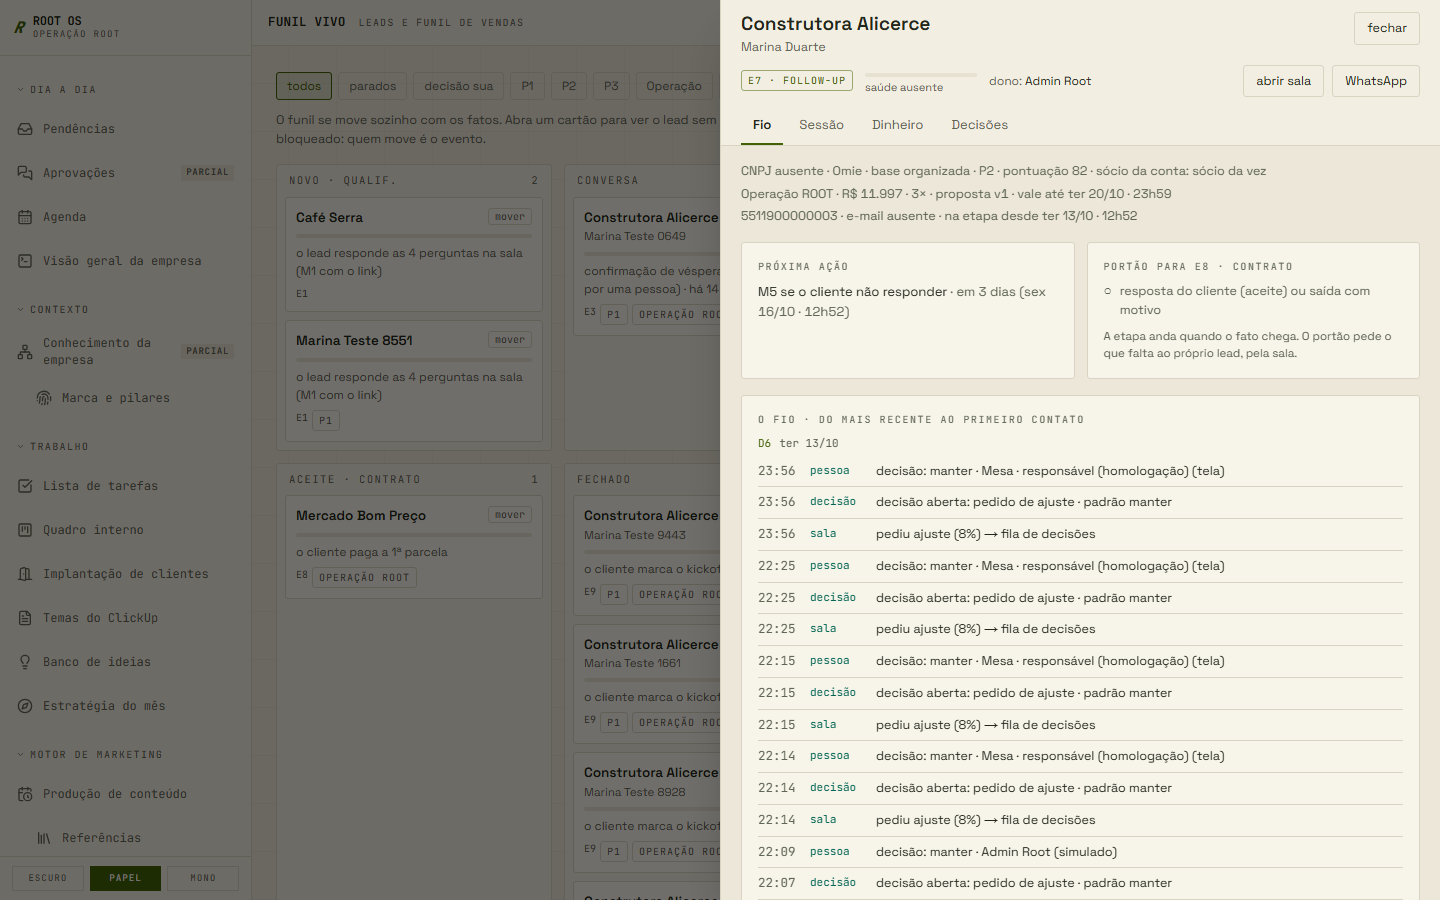
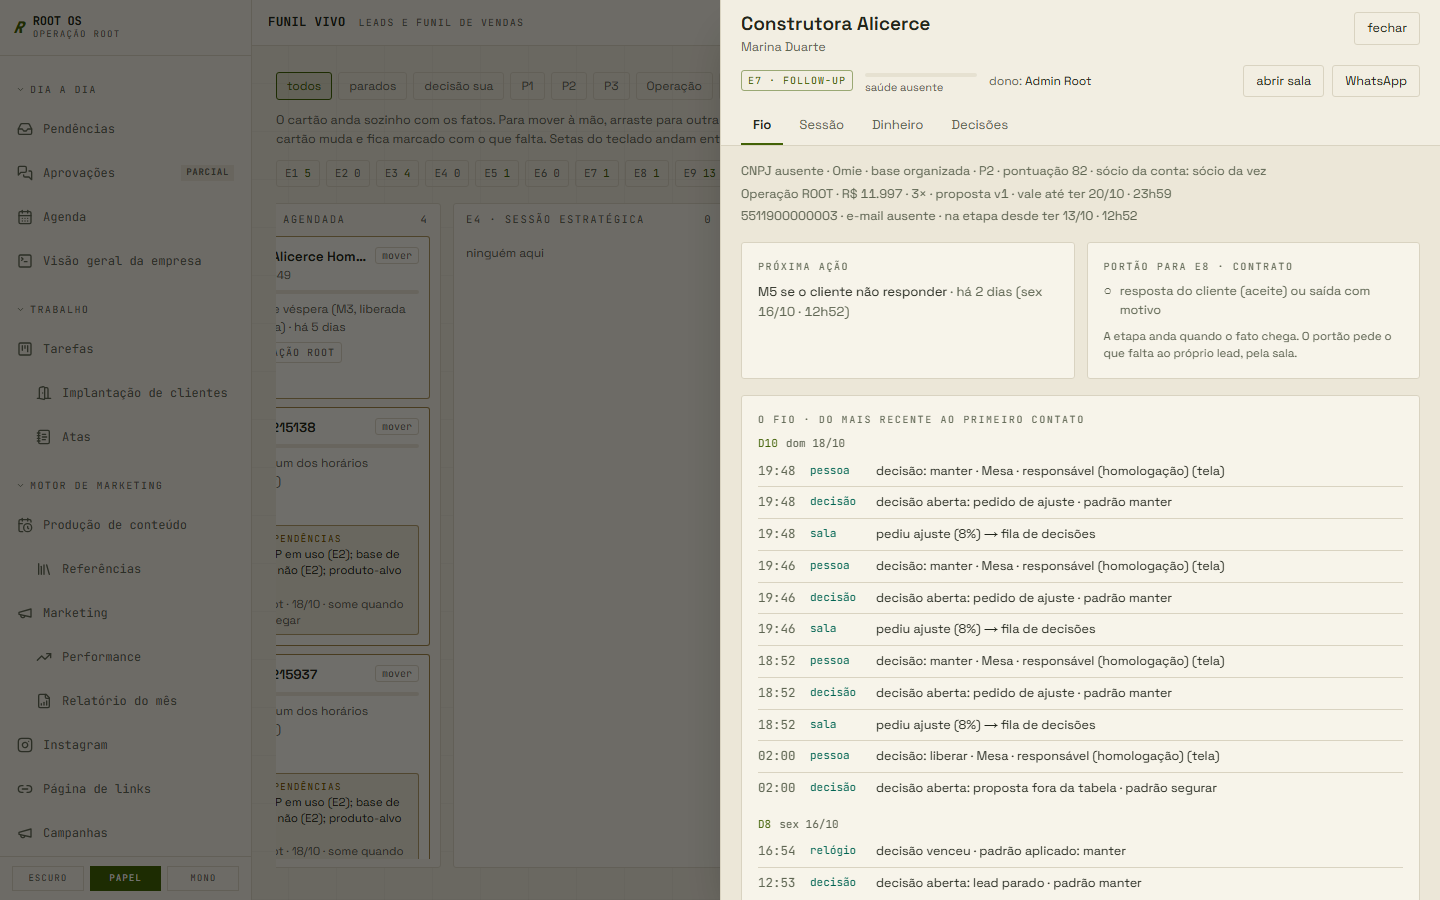
Rodada do painel P7: RESULTADO-PAINEL, provas na imagem final (painel.mjs, ux-painel.mjs, jornada) e fotos por tela

diff --git a/homolog/RESULTADO-PAINEL.md b/homolog/RESULTADO-PAINEL.md
@@ -1,0 +1,98 @@
+# RESULTADO da rodada do painel · a ata de 18/10 vira sistema
+
+> Rodada 1, de 17:06 de 18/10/2026 até o fechamento. Branch `comercial/cockpit-homolog`, sobre a entrega `comercial-ux-20261013`. Tag `painel-entrega-20261018`. Bundle em `C:\Users\User\dev\rootos-comercial.bundle` (`main..comercial/cockpit-homolog`).
+> Roteiro: `docs/comercial/RODADA-PAINEL-20261018.md`. Registro linha a linha: `homolog/progresso.md` (linhas "Rodada do painel"). Laudo da revisão adversarial: `homolog/revisao/painel-20261018.md`.
+> Só homologação. Nada foi à produção; o merge na `main` é rito da quinta com o Pedro.
+
+## 1. O que entrou, lane por lane
+
+| Lane | O pedido do Rodrigo | O que entrou |
+|---|---|---|
+| P0 menu | Contexto desce; cortar Temas do ClickUp, Banco de ideias, Estratégia; tirar Leads e Funil antigos | Ordem nova das seções (dia, trabalho, marketing, comercial, financeiro, IA, contexto, resultados, apoio). Os cinco itens saem do menu como `oculto: true`, com entrada em `ROTAS_ABSORVIDAS` (telas vivas, rota com dono, módulo preservado). Nenhuma chave de seção mudou. |
+| P1 caixa de entrada | Inbox "como a do ClickUp" no Dia a dia, limpar atividade, quadro das minhas tarefas | `/caixa` com duas abas. **Atividade**: o que outras pessoas mudaram nas suas tarefas (status, responsável, vencimento, título, comentário), com Limpar e Limpar tudo; o limpo fica no histórico. **Minhas tarefas**: tabela com filtros (lista ou pasta, status, vencimento, responsável), colunas ocultáveis guardadas no navegador e comentários num clique, sem sair da tela. A atividade é LIDA do registro que já existia (`AuditLog` com antes e depois, `WorkComment`); a única escrita nova é a marca de "limpo" de cada pessoa (`CaixaVisto`, RLS FORCE). |
+| P2 Trabalho | Pastas como no ClickUp; quadro e lista viram uma coisa só; implantação dentro do Trabalho | As pastas reusam `WorkFolder` (já existia; tabela nova seria segunda verdade). Estrutura sugerida idempotente (`POST /trabalho/estrutura/sugerida`): Administrativa, Gestão, Clientes, e dentro de Clientes as listas Esteira de clientes, Onboarding de cliente (modelo novo com as cinco fases do trilho) e Execução; aplicada na homologação. Chips de pasta no topo da tela, Quadro · Lista sobre a mesma fonte, mover lista de pasta. `/tarefas` saiu do menu e redireciona para a visão de lista. O item virou "Tarefas", com Implantação de clientes e Atas pendurados. O cartão do cliente linka o trilho só quando o vínculo existe no banco (`OnboardingTrilho.cardId`). |
+| P3 banco de atas | Atas visíveis no Trabalho, gerando sugestões de tarefa | `/trabalho/atas`: atas do vault (pasta `80-Reunioes`, configurável) e atas coladas, gravadas pela memória (ADR-011). "Sugerir tarefas" pede ao modelo, sob o teto e com `orgId`, com a ata cercada no prompt; o servidor confere cada trecho INTEIRO contra a ata, aceita vencimento só com a data no trecho e dono só quando a ata o cita. Rascunho até alguém aceitar; aceitar cria uma tarefa só, pelo caminho do botão "Nova tarefa", com dono e vencimento editáveis antes. Tabela `AtaSugestao` (RLS FORCE). Na homologação a vault não está indexada: o caminho demonstrável é colar a ata. |
+| P4 aprovações | "Uma confusão": enxergar o que cada um tem de clicar | `/atendimento` em três grupos (Depende de você · Aguardando outra pessoa · Decididas e vencidas), um pedido por linha em português ("Mover Construtora Alicerce para Reunião agendada", "Enviar WhatsApp para Marina Duarte"), nível em palavras, há quanto tempo e quando vence, contadores, filtro por tipo e estados vazios que explicam. O botão da linha só ABRE; quem executa fica dentro, ao lado do conteúdo exato e do que a assinatura pede. Nenhuma regra mudou. |
+| P5 funil vivo | Mover o cartão, com balão de pendência; rolagem por coluna; barra de status; dica nas etiquetas | Arrasto HTML5 e menu "Mover para". **Mover tem a mesma proteção que a mudança manual de etapa já tinha** (`PATCH /leads/:id`: escrita sensível, token de uso único, segunda pessoa): quem arrasta pede, outra pessoa assina em `/atendimento`, quem pediu conclui no cartão. Com portão em aberto a etapa muda e o cartão ganha o balão "movido com pendências" com a lista exata, que some quando a pendência é sanada. E8 e E9 não aceitam arrasto (acontecem sozinhas, com o porquê no menu); voltar é recusado; saída leva ao registro com motivo. Agente e conta de máquina seguem barrados. Colunas com rolagem própria, chips com contagem que levam à coluna, explicação de cada etiqueta (texto no shared). |
+| P6 WhatsApp | Layout do FinOps; texto fugindo dos quadros; mobile e desktop | O simulador virou tela de atendimento: lista de conversas, conversa e contexto do lead (três colunas a partir de 1280 px, duas no meio, uma por vez no celular, com voltar). Varredura com textos longos em 9 telas e 3 larguras: 329 elementos vazando e 18 telas com rolagem horizontal antes, zero depois. O código do FinOps5.0 não está nesta máquina: a referência foi `docs/finops-ref/`. O motor não mudou. |
+| P7 provas | Roteiro novo, fotos, resultado | `homolog/e2e/painel.mjs` (seção 3) e as fotos `homolog/provas/painel-*.png`. |
+
+## 2. O que as provas acharam e a rodada consertou
+
+A integração e a revisão adversarial acharam defeitos que as lanes não viam sozinhas. Todos consertados:
+
+- **Pedido novo sumia de `/atendimento`.** A fila lia as 100 aprovações vivas mais ANTIGAS; com mais de 100 pendentes vencidas (ninguém chama `expirarVencidas`), todo pedido novo ficava fora da tela. A leitura passou a pôr primeiro o que ainda vale. Só leitura: total, corte e estado não mudam.
+- **O pedido de mover aparecia como "agente".** A superfície antiga de aprovação gravava todo proponente como IA. Ganhou o tipo do proponente como parâmetro opcional (padrão IA, a rota pública não o aceita do corpo); o mover passa "pessoa".
+- **PA-1 (P1 da revisão): quem assinava o mover lia o texto livre de quem pediu, e o hash travava só o destino.** Com `POST /approvals` dava para assinar "E3" e mover para E7. Agora a fila recalcula o destino real pelo hash e o mostra ("Destino conferido"); texto que diverge vira impedimento e o servidor recusa a confirmação; `POST /approvals` não cria mais pedido de mover.
+- **PA-2 e PA-3: o banco de atas alargava acesso.** Ler ata do vault passou a exigir `obsidian.ver`; colar exige `obsidian.editar`, a mesma permissão de escrever na memória; conta de máquina não cola, não gera e não aceita.
+- **PA-4 e PA-5: dado inventado e segredo.** Vencimento só com a data no trecho, dono só citado na ata, trecho só inteiro; a ata do vault passa pela mesma varredura de segredos da colada.
+- **PA-6: ata longa caía em 413.** O corpo grande vale só no `POST /trabalho/atas`, só com sessão válida.
+- **PA-7 e PA-8: o ciclo do mover era frágil e a confirmada vencida ocupava a fila.** O cartão relê o pedido e acende "concluir a mudança" quando a assinatura chega, diz que o pedido vive só nesta aba e até que hora vale; a confirmada vencida vai para "vencidas". O prazo de 10 minutos não mudou.
+- E os P3 de acessibilidade e texto (foco que volta, 44 px no celular, Esc, travessão e "não é X, é Y" fora do texto de tela). O que ficou de fora está na seção 5.
+
+## 3. Provas
+
+| Prova | Resultado |
+|---|---|
+| `homolog/e2e/painel.mjs` contra o Docker | PASSA na imagem final: 16 passos em 36,7 s, 25 fotos. Prova em `homolog/provas/painel.json` |
+| `homolog/e2e/ux-painel.mjs` | PASSA: 13 passos em 19,1 s (a conferência do botão de 44 px passou a arredondar ao décimo: a altura saía 43,999996 px por subpixel) |
+| `homolog/e2e/jornada-docker.mjs` | PASSA: 13 toques humanos, 99,3 s, funil 12 → 13 |
+| Suíte do web | 75 arquivos, 998/998 |
+| Suíte da API inteira | 4271 verdes, 71 vermelhos, 5 pulados. Os 71 são todos de antes da rodada: o baseline do Windows (permissão 0600 e symlink, `homolog/.tmp/baseline-falhas-api.txt`) e `pauta-episodio` MD2, vermelho desde 13/10 pelo alinhamento do `schema.prisma` |
+| Política | 101/101 |
+| Isolamento (`rootos_comercial_test_rls`, papel restrito) | 416/416 (CaixaVisto e AtaSugestao no inventário) |
+| Typecheck da API, dos testes da API e do web | limpo |
+| Smoke da API compilada | OK (rotas da caixa registradas) |
+| Fotos | `homolog/provas/painel-*.png`: caixa (atividade e tarefas), Trabalho (pastas e lista), atas, aprovações, funil e WhatsApp, cada uma em escuro, claro e 390 px; nenhuma rola na horizontal no celular |
+
+Os passos do `painel.mjs`:
+
+1. Mesa, sócio e admin entram pela API.
+2. Preparação: o admin cria uma tarefa da mesa e comenta nela; uma lista solta; um lead novo pelo simulador.
+3. Na caixa da mesa, Atividade mostra o comentário do admin.
+4. "Limpar" tira o item da caixa e ele continua no histórico.
+5. Minhas tarefas mostra a tarefa e os comentários abrem no lugar.
+6. Uma pasta nova pela tela.
+7. A lista vai para a pasta pelo seletor e o chip da pasta a mostra.
+8. Quadro e Lista alternam sobre a mesma lista.
+9. A ata colada pela tela entra no banco de atas, pela memória.
+10. "Sugerir tarefas" traz rascunhos conferidos contra a ata.
+11. Aceitar com um clique cria a tarefa no Trabalho.
+12. O admin pede para mover o lead novo de E1 para E3 pelo menu do cartão.
+13. A mesa encontra o pedido em "Depende de você", em português.
+14. A mesa confirma pela tela nova, com as condições à vista antes do clique.
+15. O admin conclui no cartão: o lead está em E3 com o balão de pendências.
+16. Fotos de cada tela mexida, escuro, claro e 390 px.
+
+## 4. Decisões que a rodada expôs (para a mesa)
+
+- **Mover pela tela pede duas pessoas.** É a régua que já protegia a mudança manual de etapa; numa empresa com uma pessoa só, mover pela tela fica impossível, como já era o `PATCH /leads/:id`. Trocar isso é decisão da régua, não da tela. [a decidir]
+- **Registrar saída é mais fraco que mover.** `POST /comercial/lead/:id/saida` muda etapa e `Lead.status` só com `leads.editar`, sem aprovação. Não mexi. [a decidir]
+- **A régua do funil para agente** continua a de antes (barrado pelos portões): o aviso no lugar da trava é só para gente, como o roteiro manda.
+- **Quem cola ata precisa de `obsidian.editar`.** A mesa da homologação (`gestor_marketing`) não tem; no roteiro, quem cola é o admin. Se a operação quiser que quem tem `tarefas.editar` cole ata, é permissão nova no papel. [a decidir]
+- **O sócio da homologação não tem `leads.editar` nem `tarefas.editar`.** Por isso o roteiro pede o mover como admin. [a decidir] se o perfil titular deve ter essas.
+- **`expirarVencidas` continua sem chamador.** A fila agora desenha certo, mas o banco segue com pendentes vencidas para sempre. Ligar um agendador é decisão (ela muda estado). [a decidir]
+- **Apagar de vez as telas cortadas, a tabela `Task` e unificar `Task` com `WorkTask`** continuam com o Pedro (ROOT-10).
+- **WhatsApp de produção** (Evolution, Cloud API ou Digisac) e o número: a rodada trabalhou no simulado.
+
+## 5. Ficou de fora, com o estado exato
+
+- **Vault na homologação:** nenhuma nota indexada; a fonte (a) do banco de atas está pronta e testada, mas a demonstração é pela colagem.
+- **Caixa:** o selo do menu ainda conta aprovações e tarefas paradas, não a atividade nova; a atividade lê até as 1.000 tarefas suas mudadas por último (a resposta avisa quando bate no teto); mudanças de campo personalizado, descrição e checkout de agente não aparecem; `POST /caixa/limpar` não confere se o evento existe (só incha a tabela do próprio usuário).
+- **Atas:** aceitar cria a tarefa fora da transação da sugestão (uma queda no meio deixa "aceita" sem tarefa); ata por link ou PDF ainda não (só texto e .md/.txt).
+- **Funil:** o balão aparece no funil; o painel do lead recebe o dado e ainda não o mostra. O RASTRO do CONSUMO do token do mover ainda diz `ai`; o hash do mover não prende a etapa de origem (o portão confere a de agora).
+- **WhatsApp:** a lista da API não traz a última mensagem nem não lidas; a prévia aparece só nas conversas abertas na visita.
+- **`motivoDoBloqueio`** (`apps/web/src/lib/cockpit.ts`) virou código morto; não apaguei (regra da casa).
+- **Bundle:** o lançador pedia refazê-lo nos primeiros 10 minutos; foi refeito depois das lanes (registrado), e de novo no fechamento.
+- **Docker Desktop sem AutoStart** continua [a decidir] (RESULTADO-UX §4).
+
+## 6. Como testar em 5 minutos
+
+1. `http://100.95.41.124:3010/` (Tailscale) ou `http://127.0.0.1:3010/`; entre como `mesa@root.homolog` (ou `admin@marketing-os.local`) com a `ADMIN_PASSWORD` de `homolog/.env.homolog`.
+2. O menu: Dia a dia, Trabalho (Tarefas, com Implantação e Atas dentro), Marketing, Comercial (sem Leads e Funil antigos), Financeiro, IA, Contexto, Resultados.
+3. **Pendências** (`/caixa`): Atividade e Minhas tarefas; limpe um item, ligue "ver também os já limpos".
+4. **Tarefas** (`/trabalho`): os chips de pasta no topo, Quadro · Lista, mova uma lista de pasta.
+5. **Atas** (`/trabalho/atas`), como admin: "Colar ata" com o texto de `homolog/fixtures/ata-trabalho-exemplo.md`, "Sugerir tarefas", aceite uma.
+6. **Funil** (`/comercial/funil`), como admin: "mover" num lead de E1 para E3; como mesa, em **Aprovações**, abra o pedido ("Destino conferido") e confirme; de volta ao cartão, "concluir a mudança": o balão aparece.
+7. **WhatsApp** (`/comercial/simulador`), também com a janela em 390 px.
+8. Prova automática: `node homolog/e2e/painel.mjs` (cerca de 40 s, Playwright de `C:\Users\User\dev\pw-tools`).

diff --git a/homolog/progresso.md b/homolog/progresso.md
@@ -156,3 +156,4 @@
 - 2026-10-18 19:39 · Rodada do painel · revisão: PA-2 (P2) o banco de atas não alarga mais o acesso. Ata do vault (lista, leitura, sugestões tiradas dela, aceitar e descartar) pede também obsidian.ver; sem ela a lista traz só as coladas e diz por quê (TrabAtaLista.vaultVisivel). Colar pede tarefas.editar + obsidian.editar, a mesma do POST /memoria (conferida na fonte pelo teste). Nenhuma permissão nova, então nada de db:sync-permissions. O painel.mjs cola, gera e aceita como admin: a mesa (gestor_marketing) não tem obsidian.editar. PA-3 (P2): SoGenteNasAtasGuard (token) + exigirGente (banco, temPapelDeMaquina + lerAprovador) em colar, gerar, aceitar e descartar; conta ia_acao com token sem o papel também cai, e o seed da ata de exemplo passou a colar só com uma pessoa. PA-5 (P2): a ata do vault passa por varrerSegredos antes da tela, do resumo, do modelo e do trecho; título e trecho varridos de novo ao gravar.
 - 2026-10-18 19:39 · Rodada do painel · revisão: PA-4 (P2) vencimento só com a data NO TRECHO (datasDoTrecho: sem ano = próxima ocorrência a partir do dia da reunião; "Data:" do cabeçalho não conta; ano errado do modelo cai), dono só se o nome está na ata (palavra inteira; pessoa da casa não citada vira nulo) e trecho só INTEIRO na ata (trechoInteiroNaAta, mínimo 15; o leitor do onboarding ficou como estava). TrabAtaAceitarSchema ganha dono? e vencimento?; a tela mostra os dois como campos editáveis (ata-dono-*, ata-vencimento-*) e o aceite leva o escolhido, com donoCorrigido/vencimentoCorrigido na auditoria. Os quatro cenários do laudo viram teste e nenhum passa; a fixture do stub segue dando 3 sugestões aceitáveis (a do vencimento inventado fica sem data, a do trecho inventado sai). PA-6 (P2): POST /trabalho/atas no parser grande do C-9, só com sessão e só na rota exata (as de baixo e o resto da API seguem nos 100 kb); a tela trava acima de 200 mil caracteres. Provas: trabalho-atas 28/28 (contra o Postgres), trabalho-atas-corpo 5/5 (200 mil caracteres 200, de baixo 413), comercial-revisao-ata-puro 2/2, adversarial+modulos+caixa+caixa-atividade+estrutura+pauta-robustez+arquitetura 371/371; web trabalho-atas 17/17.
 - 2026-10-18 19:39 · Rodada do painel · revisão: P3 de atas, caixa e Trabalho. Avisos do leitor sem travessão e a contagem de descartadas pelo parser (não pelo texto); "sem vencimento na ata" vira "sem vencimento"; "Não é erro: é decisão de papel." vira "O papel de cada pessoa define o que ela vê." (caixa/comum.tsx, caixa/page.tsx). Foco: o colar abre no título, fecha com Esc e volta ao botão (aria-controls); o balão de comentários devolve o foco ao botão no Esc e no fechar, e o clique no próprio botão alterna em vez de fechar e reabrir; limpar um item da Atividade foca o vizinho ou o Limpar tudo. Seletor de pasta grava com o mouse na hora e com tecla só no Enter ou ao sair (Esc desfaz). 44 px no celular: botões, campos e select das Atas, BOTAO_PEQUENO da caixa (era 40) e chips de pasta. ataSugestao com orgId no where. telas-lane-c.py espera a orientação atual do funil e fotografa o balão. Provas: web caixa+trabalho+nav 111/111 e trabalho* 105/105, typecheck api, test e web limpos. Fora: motivoDoBloqueio morto fica (apagar é de pessoa), POST /caixa/limpar sem conferir evento (P3-13, só incha a tabela do próprio usuário), aceita sem tarefa após queda (P3-10, segunda metade), relatório e balão do comercial (outra lane).
+- 2026-10-18 19:48 · Rodada do painel · P7 fechamento: imagem final (depois das lanes de revisão PA-1 a PA-8) de pé, health 200; painel.mjs PASSA (16 passos, 36,7 s, 25 fotos escuro/claro/390 px, nenhuma rolagem horizontal no celular); ux-painel.mjs PASSA (13 passos, 19,1 s; a conferência do fechar de 44 px arredonda ao décimo, a altura saía 43,999996 px); jornada-docker PASSA (13 toques, 99,3 s, funil 12 → 13); API inteira 4271 verdes, 71 vermelhos todos anteriores à rodada (baseline do Windows + pauta-episodio), 5 pulados; web 75 arquivos 998/998; política 101/101; isolamento 416/416; typecheck limpo; smoke OK. homolog/RESULTADO-PAINEL.md escrito; README aponta para ele. Tag painel-entrega-20261018 e bundle.

diff --git a/homolog/README.md b/homolog/README.md
@@ -2,7 +2,7 @@
 
 Ambiente de homologação do módulo comercial do ROOT OS: projeto Docker próprio (`rootos-comercial`), sem rede, volume ou porta compartilhados com outro projeto da máquina. Não é produção.
 
-O estado da entrega, as pendências e a lista do que depende do Rodrigo estão em `homolog/RESULTADO.md`. O painel do lead e a passada de UX (lane UX, 13/10) estão em `homolog/RESULTADO-UX.md`; a prova no navegador é `node homolog/e2e/ux-painel.mjs`. O registro linha a linha está em `homolog/progresso.md`. Os laudos da revisão adversarial estão em `homolog/revisao/`.
+O estado da entrega, as pendências e a lista do que depende do Rodrigo estão em `homolog/RESULTADO.md`. O painel do lead e a passada de UX (lane UX, 13/10) estão em `homolog/RESULTADO-UX.md`; a prova no navegador é `node homolog/e2e/ux-painel.mjs`. A rodada do painel (18/10: caixa de entrada, Trabalho em pastas, banco de atas, aprovações legíveis, funil que move, WhatsApp) está em `homolog/RESULTADO-PAINEL.md`; a prova é `node homolog/e2e/painel.mjs`. O registro linha a linha está em `homolog/progresso.md`. Os laudos da revisão adversarial estão em `homolog/revisao/`.
 
 ## 1. Subir do zero
 
